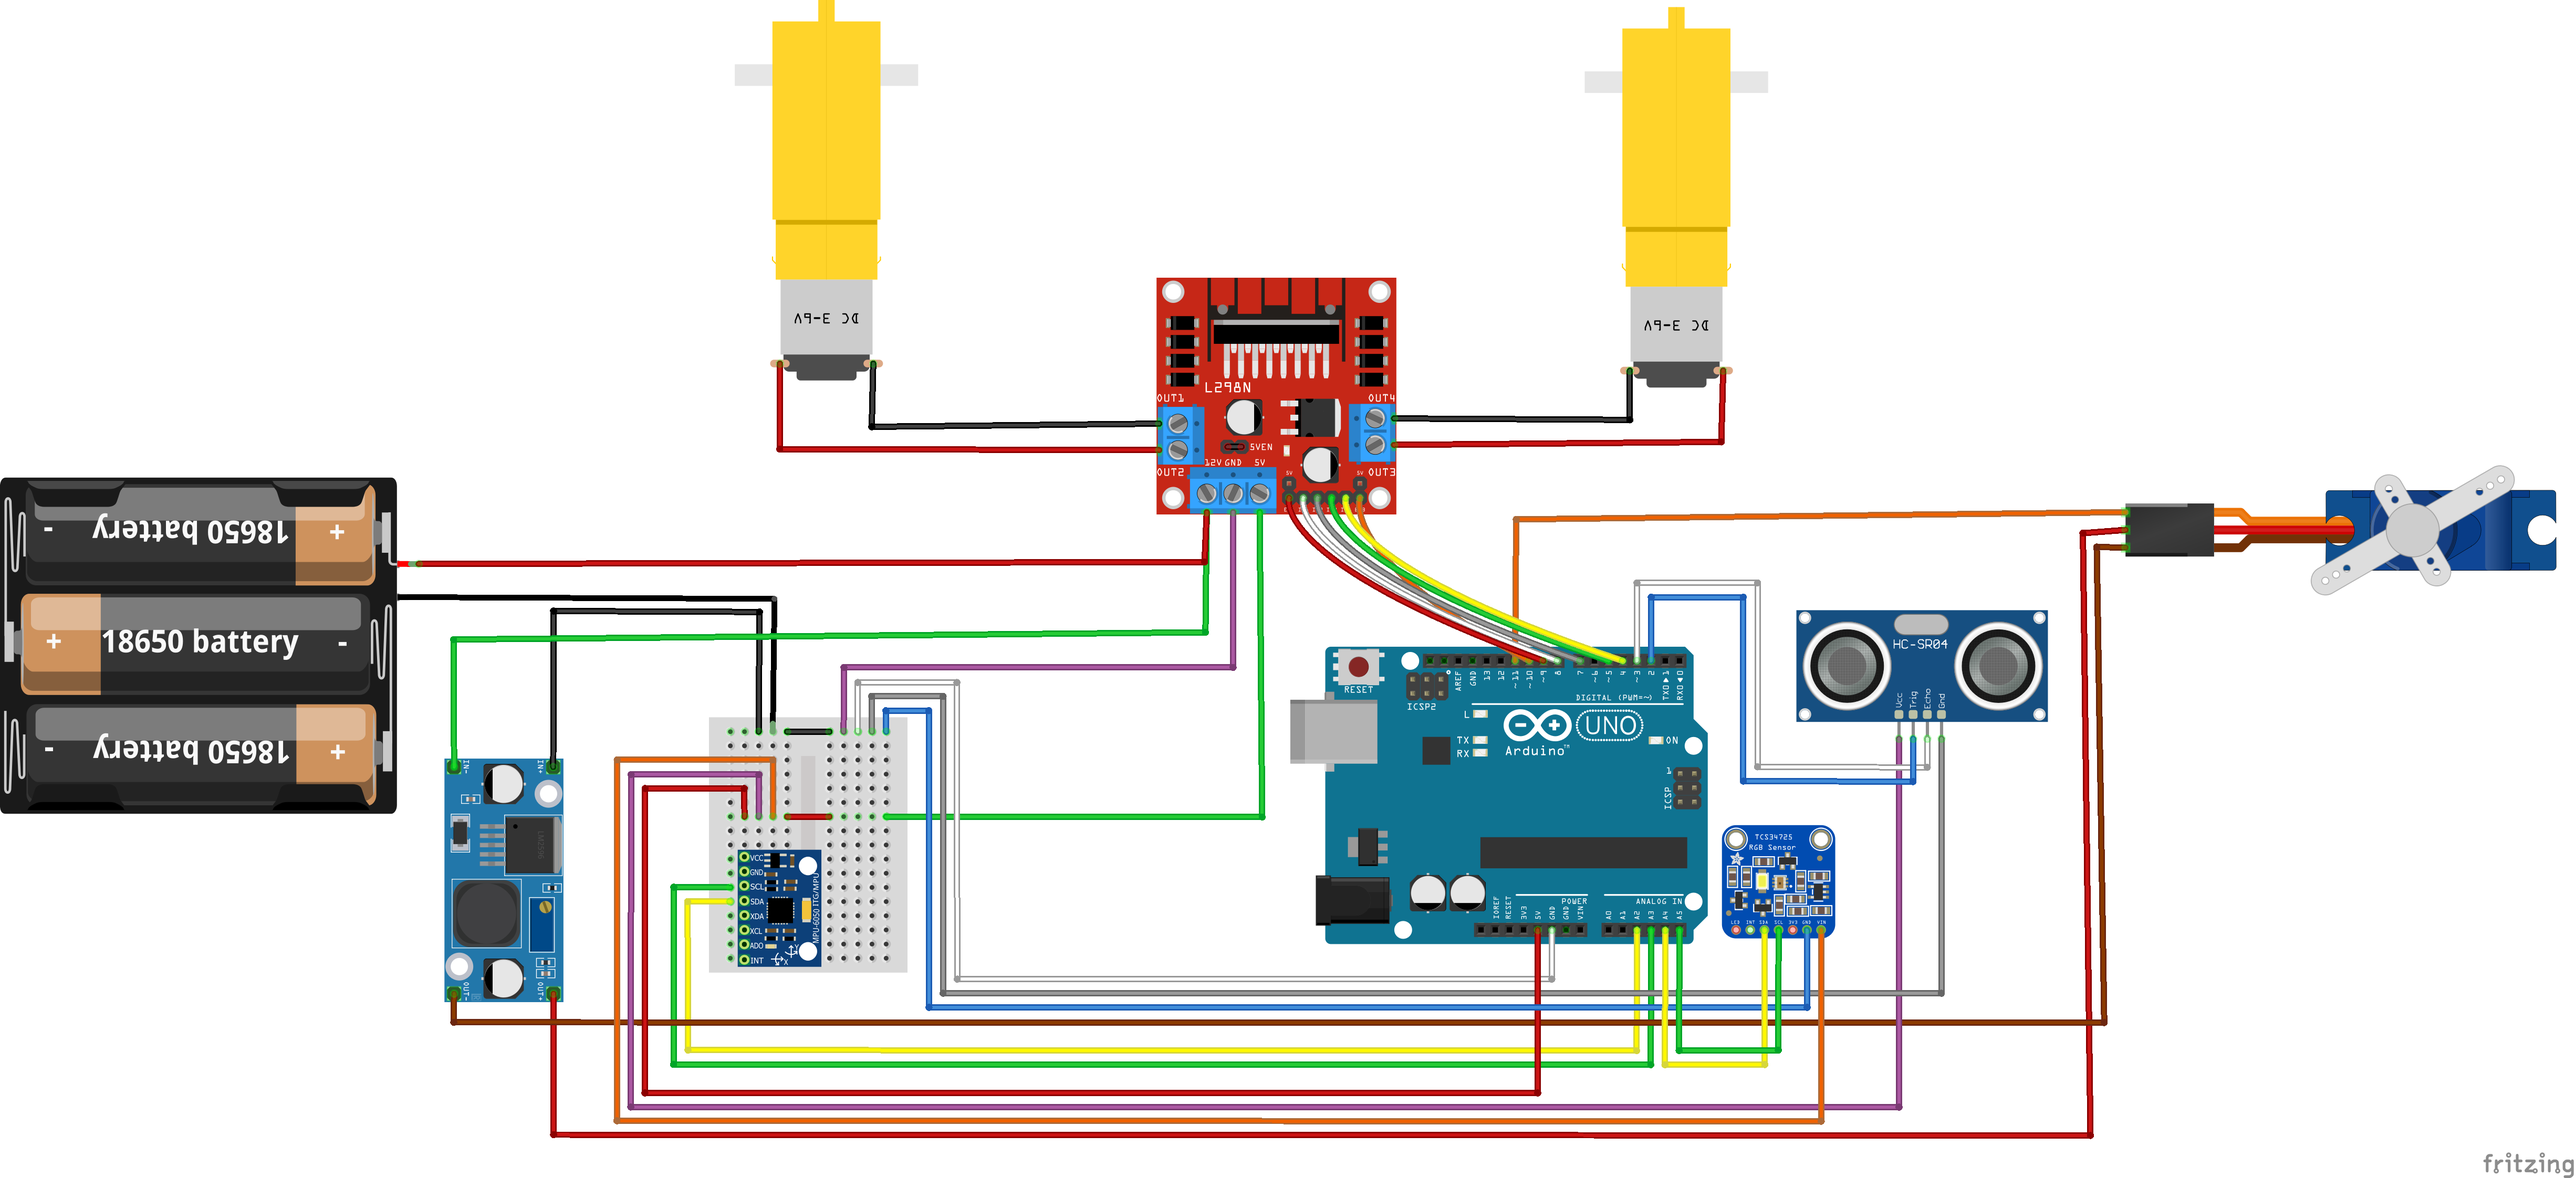
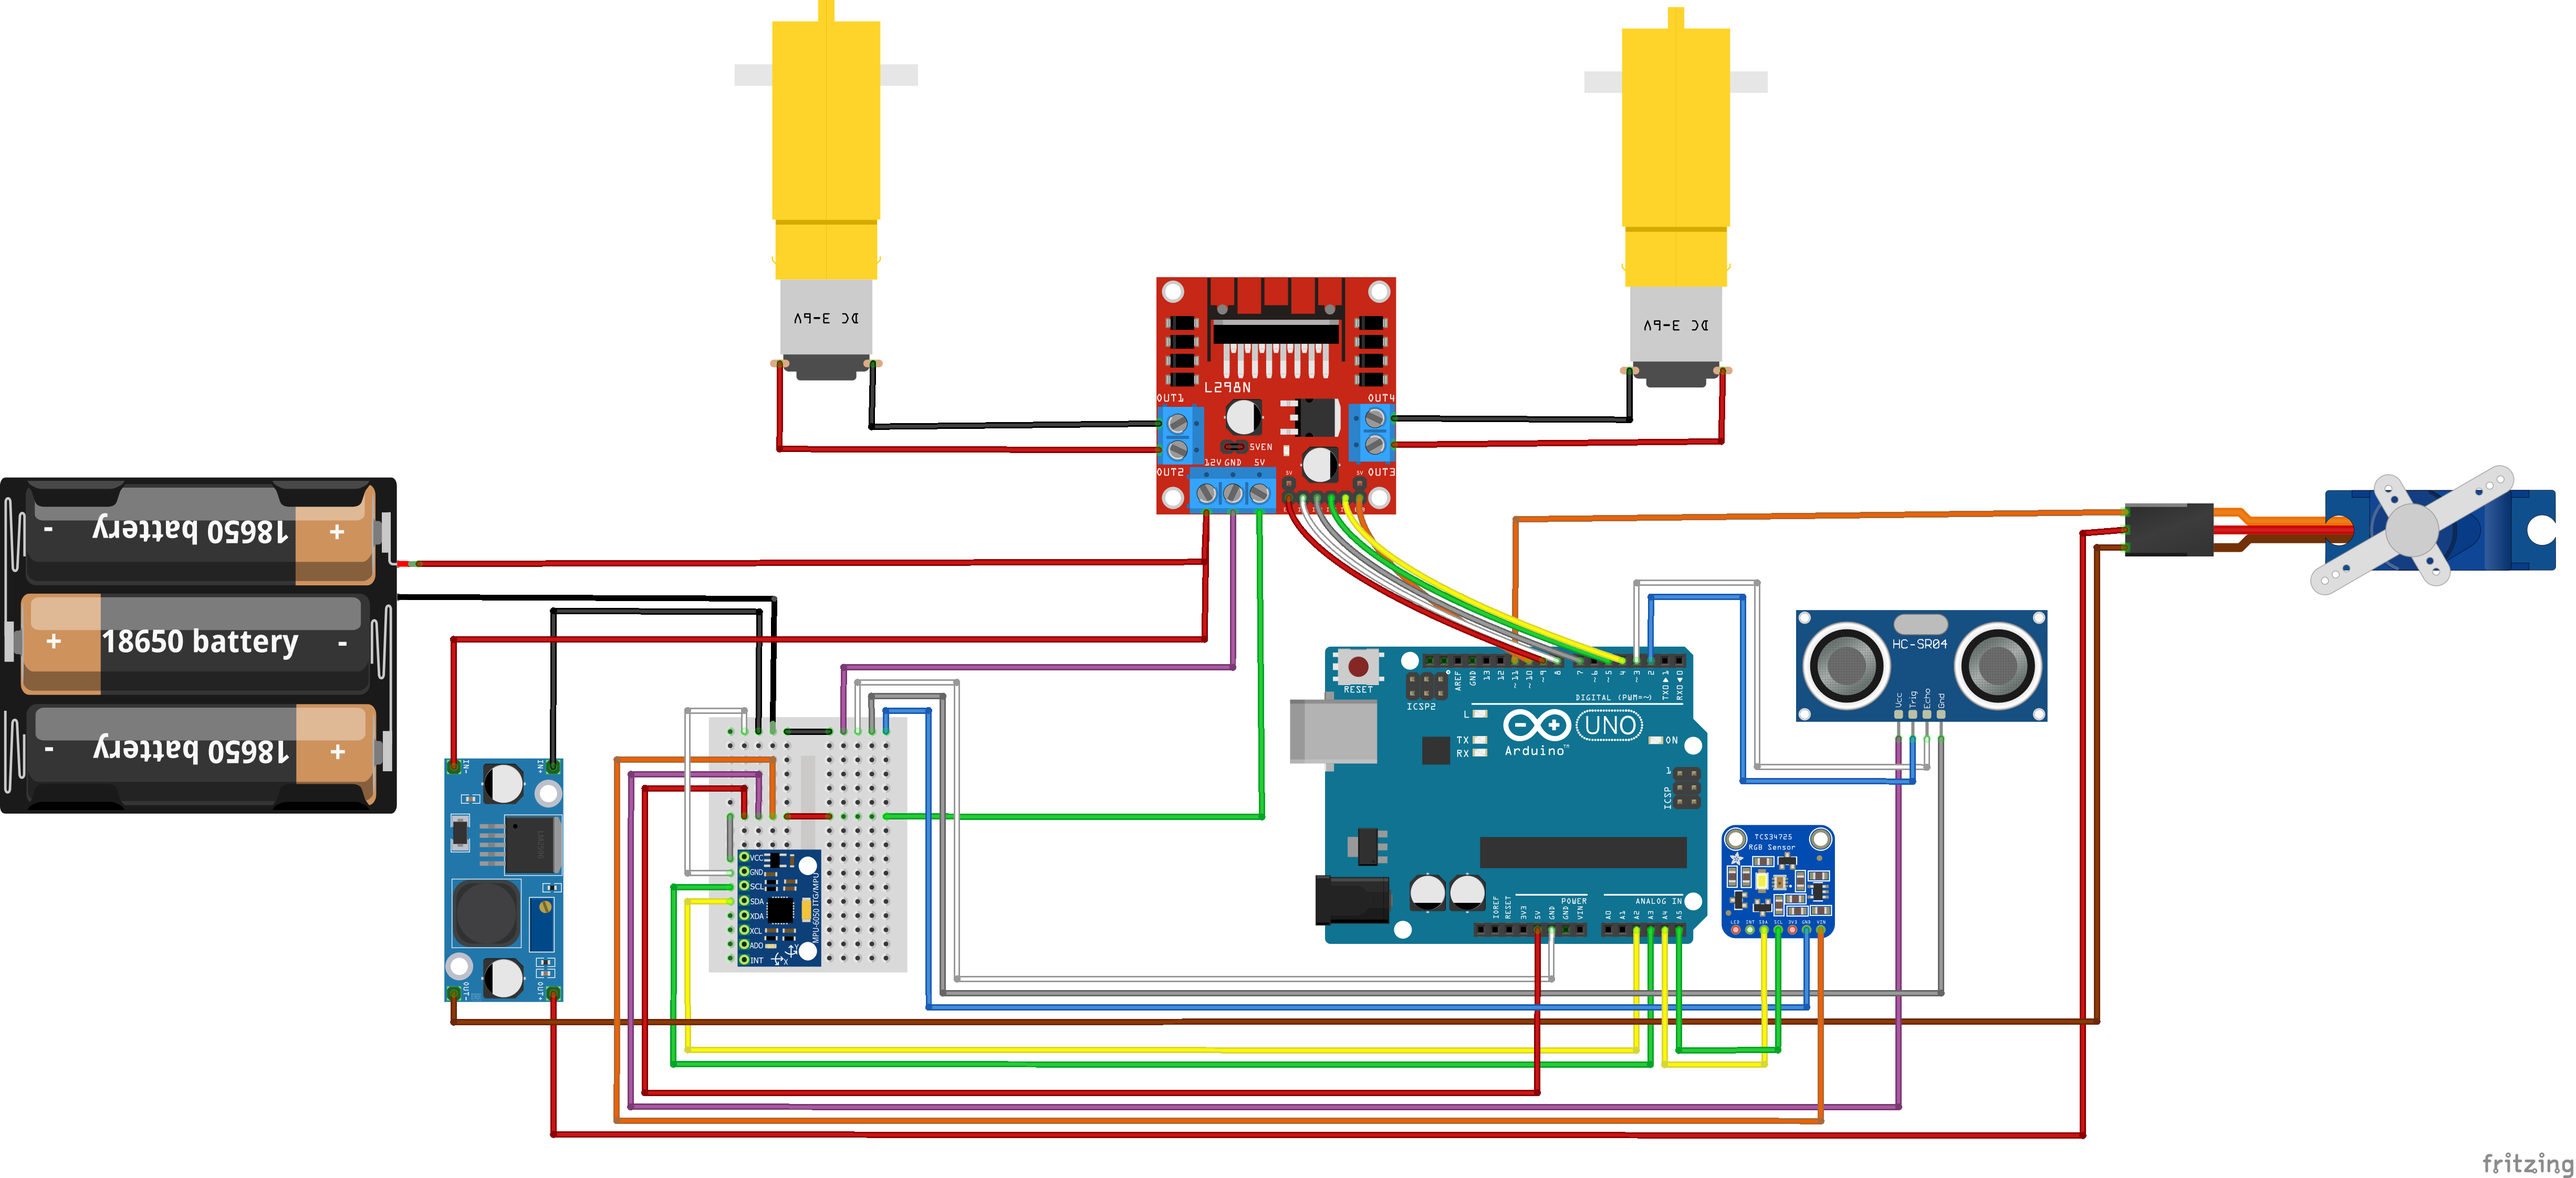
Cambios menores en esquema
Añadí unos cables

diff --git a/README.md b/README.md
@@ -22,7 +22,7 @@ Para cada módulo, se incluye lo siguiente
 * Enlace al repositorio: https://github.com/viice57/Laboratorios-ICI4150.git
 * Descarga Arduino IDE: https://www.arduino.cc/en/software/
 * Descarga Fritzing: https://github.com/fritzing/fritzing-app/releases/
-* Esquema actual (act. 15/05/25): https://github.com/viice57/Laboratorios-ICI4150/blob/main/Laboratorio%202/Esquema.png
+* Esquema actual (act. 18/05/25): https://github.com/viice57/Laboratorios-ICI4150/blob/main/Laboratorio%202/Esquema.png
 
 ---
 
